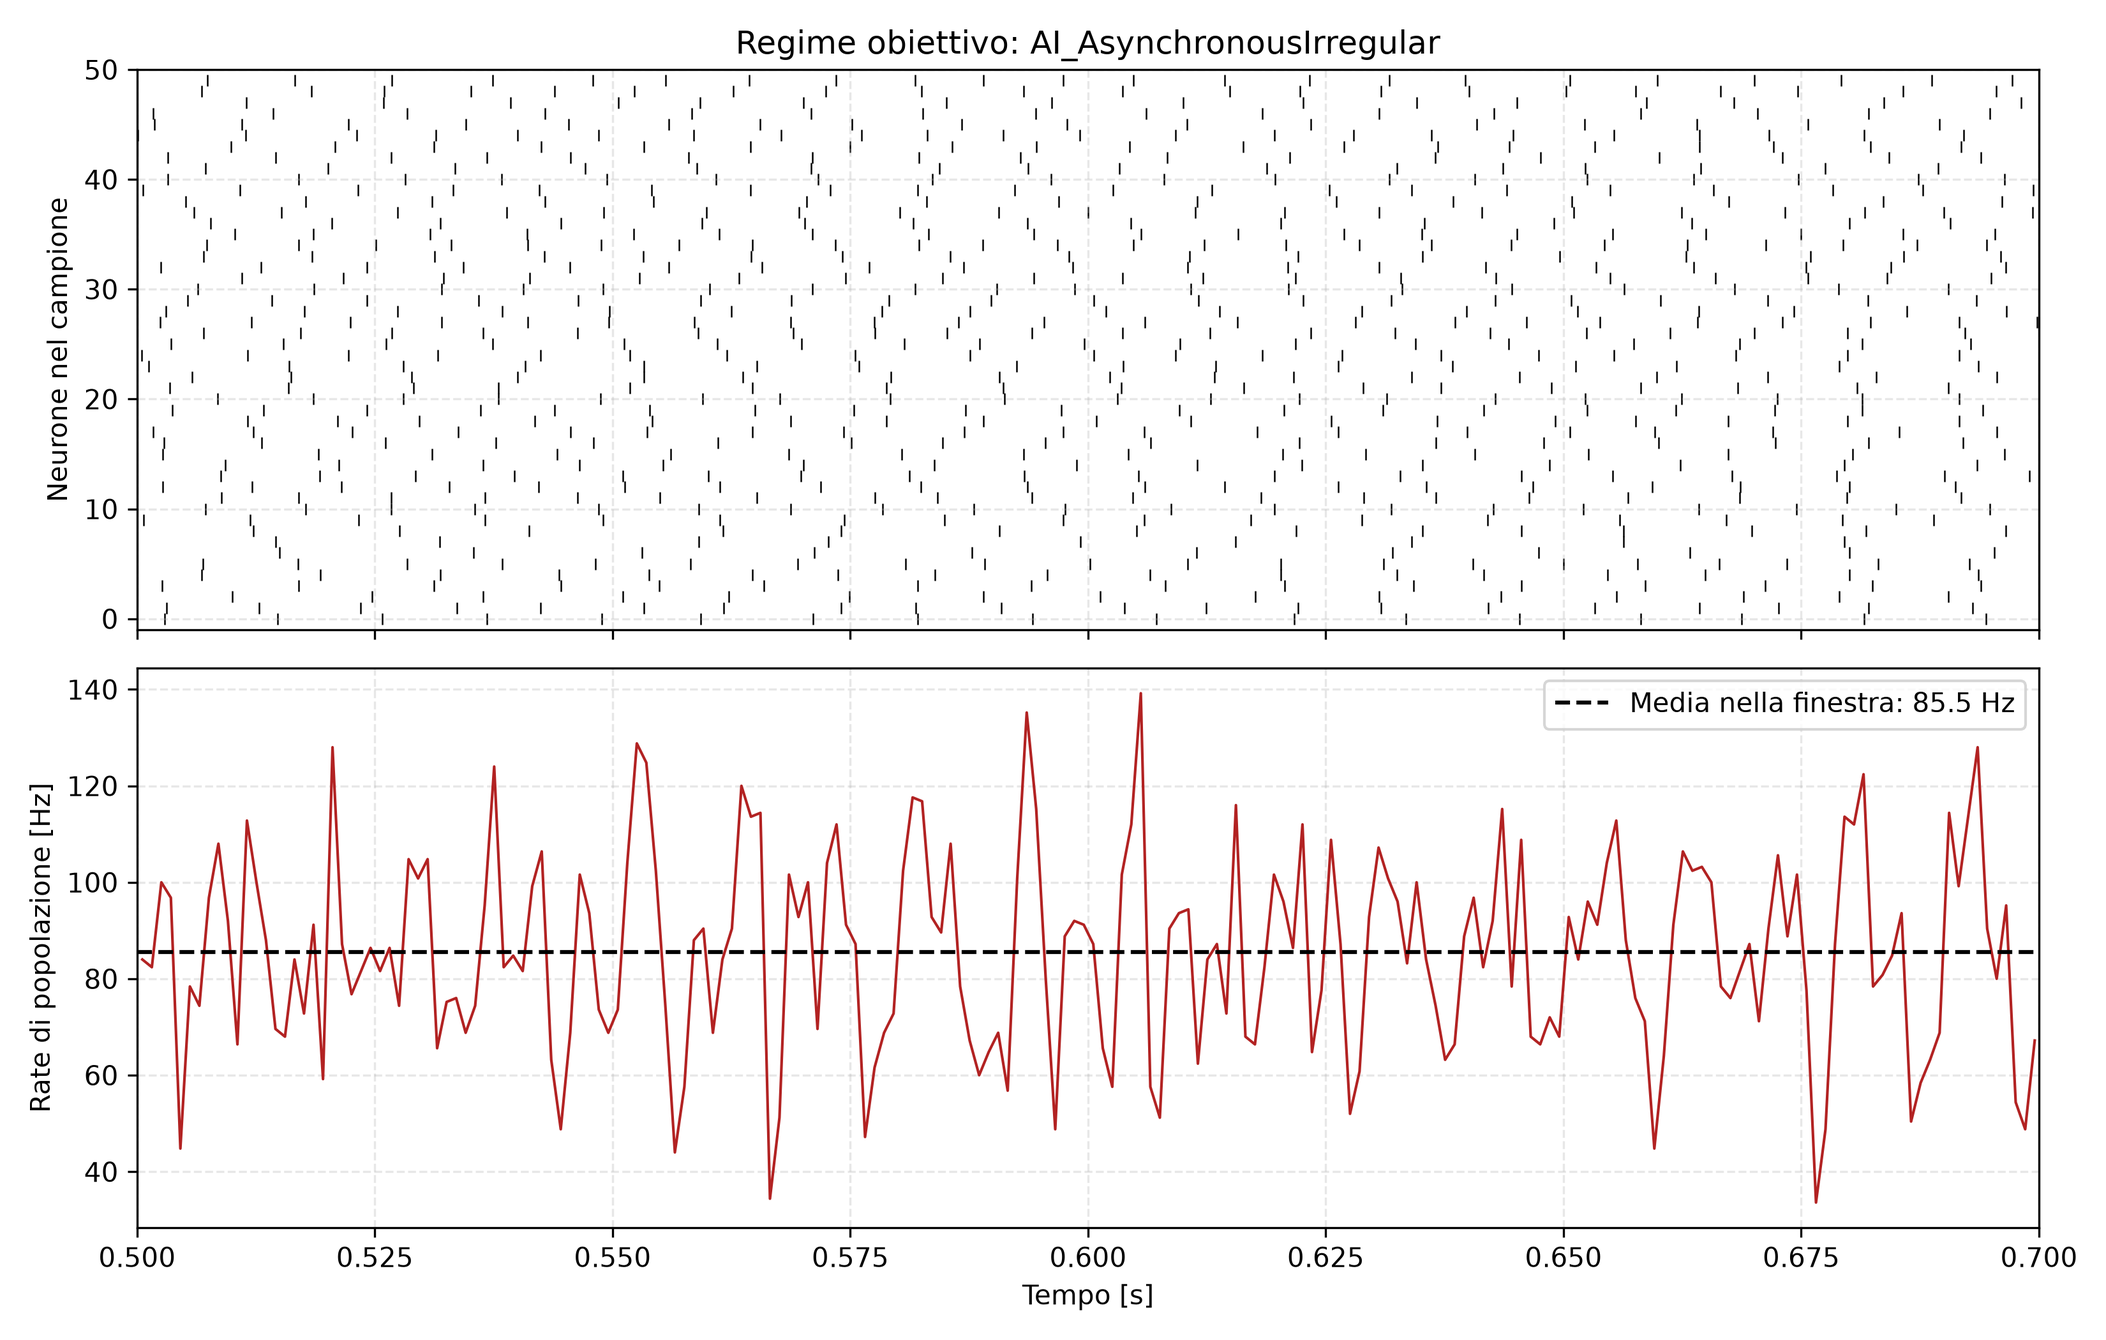
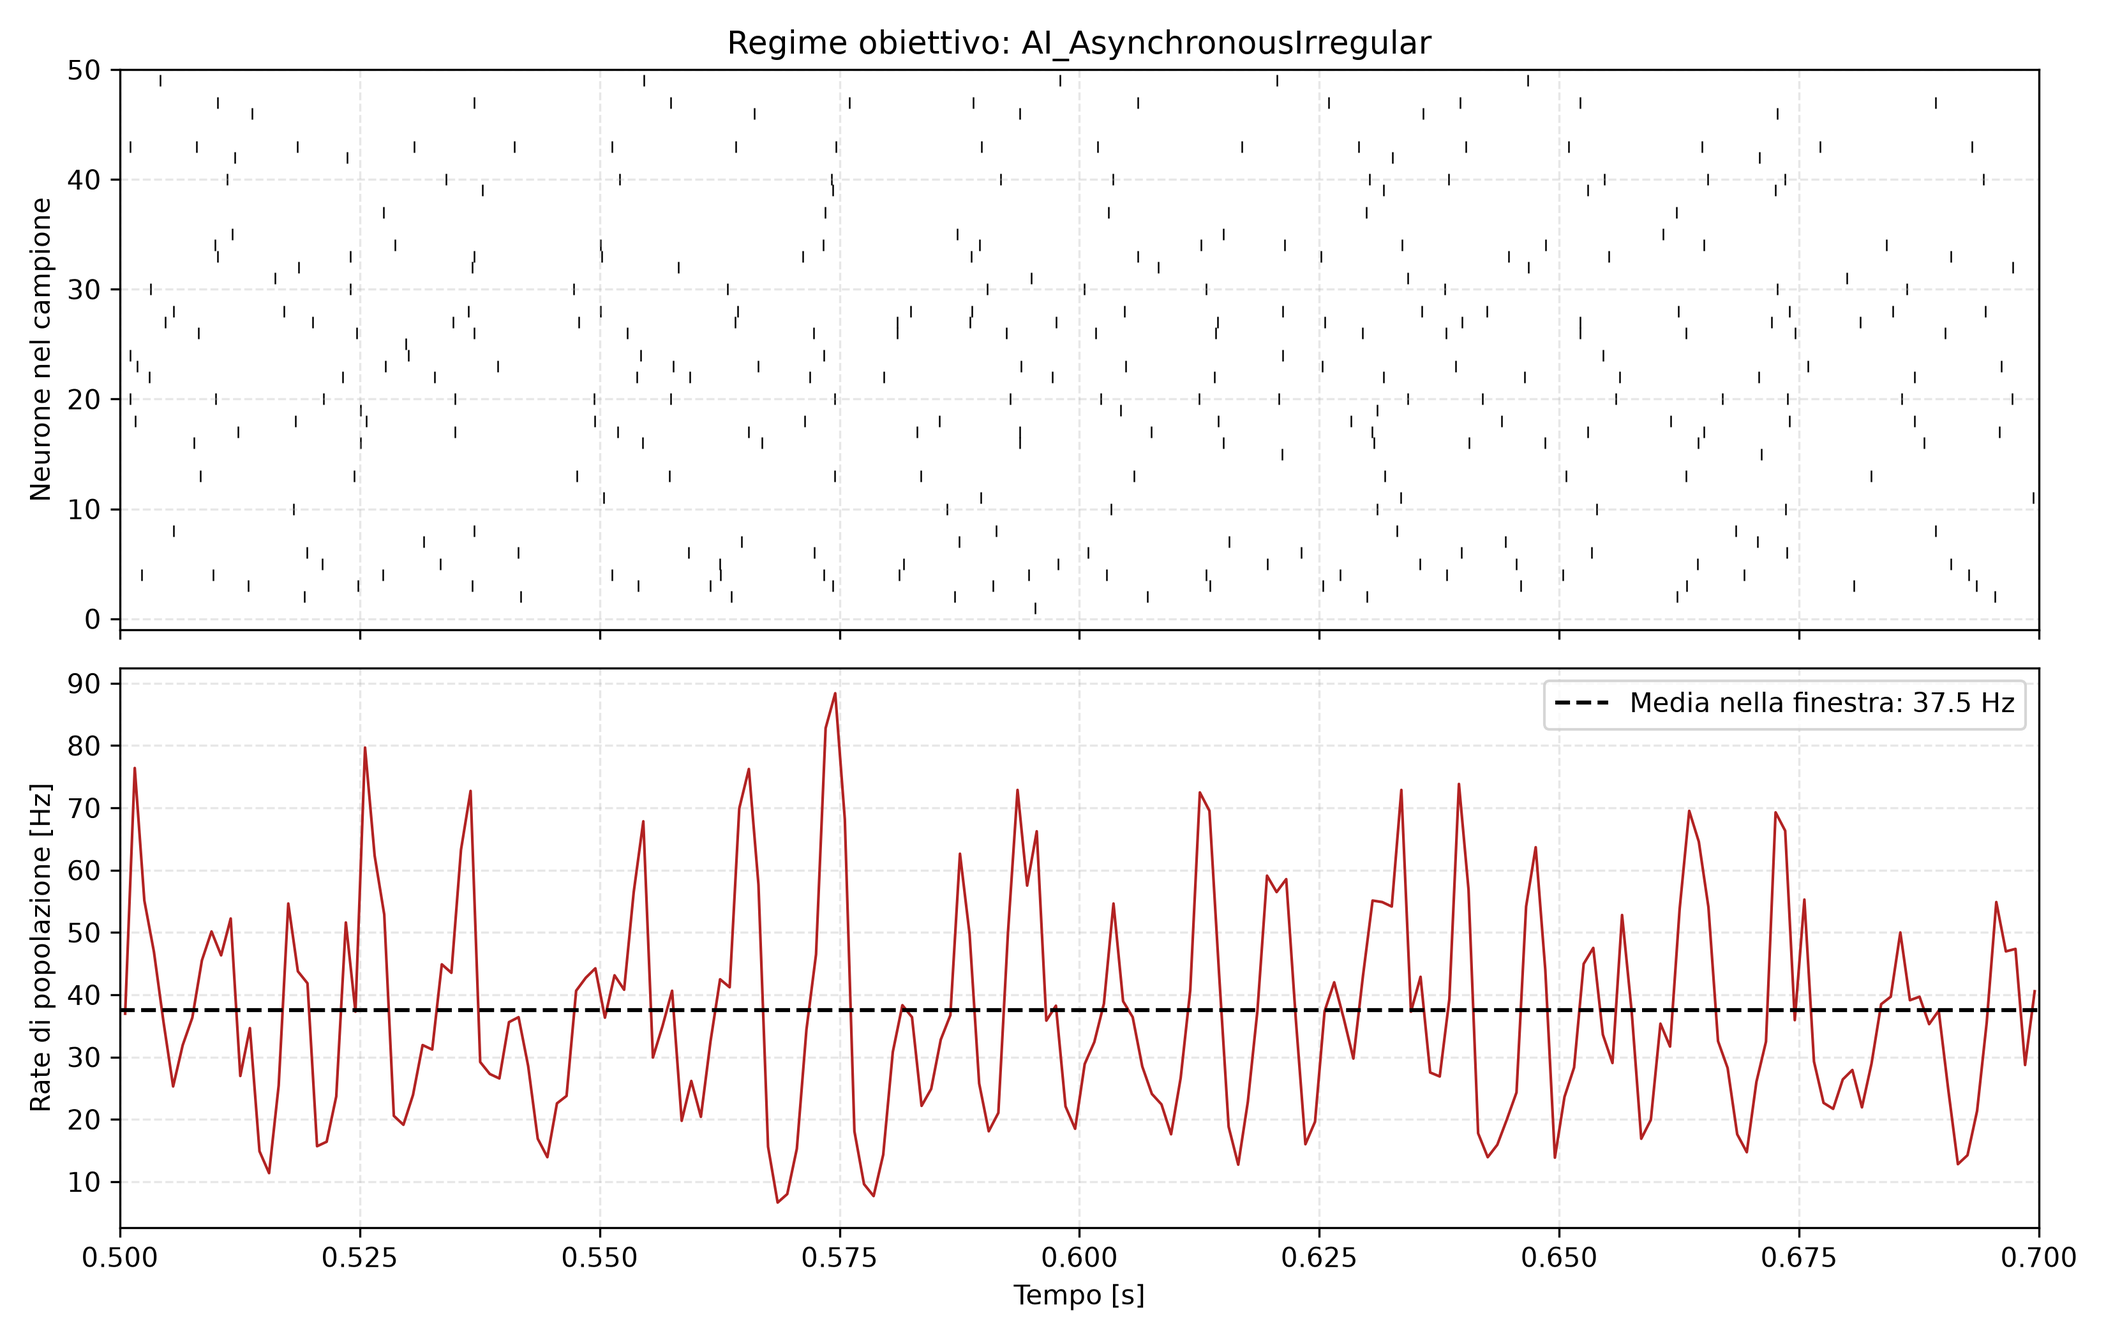
sinapsi attive e test con brunel

diff --git a/src/Simulazione.cpp b/src/Simulazione.cpp
@@ -102,23 +102,23 @@ void Simulazione::valutaStimoli(double t) {
 void Simulazione::scritturaHeader() {
 
     // 1. Apertura dei file
-    filePotenziali_.open("output/" + fileNameV_, std::ios::binary | std::ios::out);
+    // filePotenziali_.open("output/" + fileNameV_, std::ios::binary | std::ios::out);
     fileFiring_.open("output/" + fileNameF_, std::ios::binary | std::ios::out);
     // fileSinapsi_.open("output/" + fileNameS_, std::ios::binary | std::ios::out);
 
     // 2. Controllo della corretta apertura dei file
-    if (!filePotenziali_.is_open() || !fileFiring_.is_open() /*|| !fileSinapsi_.is_open()*/) {
+    if (/*!filePotenziali_.is_open() || */ !fileFiring_.is_open() /*|| !fileSinapsi_.is_open()*/) {
         std::cerr << "[Simulazione] errore: impossibile aprire i file di output.\n";
         return;
     }
 
     // 3. Calcolo "numero di colonne"
-    int32_t colsV = engine_.numeroNeuroniTotali_ + 1;
+    // int32_t colsV = engine_.numeroNeuroniTotali_ + 1;
     int32_t colsF = engine_.numeroNeuroniTotali_ + 1;
-    // int32_t colsS = engine_.numeroSinapsiTotali_ + 1;
+    //  int32_t colsS = engine_.numeroSinapsiTotali_ + 1;
 
     // 4. Scrittura dell'header nei file
-    filePotenziali_.write(reinterpret_cast<const char*>(&colsV), sizeof(int32_t));
+    // filePotenziali_.write(reinterpret_cast<const char*>(&colsV), sizeof(int32_t));
     fileFiring_.write(reinterpret_cast<const char*>(&colsF), sizeof(int32_t));
     // fileSinapsi_.write(reinterpret_cast<const char*>(&colsS), sizeof(int32_t));
 }
@@ -126,12 +126,12 @@ void Simulazione::scritturaHeader() {
 void Simulazione::creazioneBuffer() {
 
     // 1. Calcolo "numero di colonne"
-    int32_t colsV = engine_.numeroNeuroniTotali_ + 1;
+    // int32_t colsV = engine_.numeroNeuroniTotali_ + 1;
     int32_t colsF = engine_.numeroNeuroniTotali_ + 1;
     // int32_t colsS = engine_.numeroSinapsiTotali_ + 1;
 
     // 2. Calcolo numero di byte da scrviere ad ogni step
-    bytesPerStepV_ = static_cast<size_t>(colsV) * sizeof(double);
+    // bytesPerStepV_ = static_cast<size_t>(colsV) * sizeof(double);
     bytesPerStepF_ = static_cast<size_t>(colsF) * sizeof(double);
     // bytesPerStepS_ = static_cast<size_t>(colsS) * sizeof(double);
 
@@ -139,16 +139,17 @@ void Simulazione::creazioneBuffer() {
     size_t ramDisponibile = getAvailableRAM(); // detection --> scritta interamente da gemini, da controllare
 
     // 4. Calcolo la grandezza massima uguale per i tre buffer
-    size_t bufferTarget = ramDisponibile / 4;
+    size_t bufferTarget = ramDisponibile / 2;
     std::cout << "RAM disponibile : " << ramDisponibile / (1024 * 1024) << " MB" << std::endl;
 
     // 5. Calcolo il numero di step di simulazione che entrano nel buffer di dimensione massima
-    size_t stepsPerFlushV = bufferTarget / bytesPerStepV_;
+    // size_t stepsPerFlushV = bufferTarget / bytesPerStepV_;
     size_t stepsPerFlushF = bufferTarget / bytesPerStepF_;
     // size_t stepsPerFlushS = bufferTarget / bytesPerStepS_;
 
     // 6. Considero il numero di step minore
-    stepsPerFlush_ = std::min({stepsPerFlushV, stepsPerFlushF, /*stepsPerFlushS,*/ static_cast<size_t>(stepTotali_)});
+    stepsPerFlush_ =
+        std::min({/*stepsPerFlushV,*/ stepsPerFlushF, /*stepsPerFlushS,*/ static_cast<size_t>(stepTotali_)});
 
     // 7. Controllo che il numero di step più piccolo non sia nullo
     if (stepsPerFlush_ == 0) {
@@ -159,17 +160,17 @@ void Simulazione::creazioneBuffer() {
 
     // 8. Calcolo la dimensione di ciascun buffer in base al numero di byte scritti in uno step
     // Osservazione : i buffer hanno dimensioni diverse ma si riempiono tutti allo stesso step (stepPerFlush_)
-    size_t bufferSizeV = stepsPerFlush_ * bytesPerStepV_;
+    // size_t bufferSizeV = stepsPerFlush_ * bytesPerStepV_;
     size_t bufferSizeF = stepsPerFlush_ * bytesPerStepF_;
     // size_t bufferSizeS = stepsPerFlush_ * bytesPerStepS_;
 
     // 9. Imposto la dimensione dei tre buffer
-    bufferV_.resize(bufferSizeV);
+    // bufferV_.resize(bufferSizeV);
     bufferF_.resize(bufferSizeF);
     // bufferS_.resize(bufferSizeS);
 
     // 10. Log per vedere quanta RAM si sta usando effettivamente
-    std::cout << "[Simulazione] RAM allocata per i 3 buffer: " << (bufferSizeV + bufferSizeF) / (1024 * 1024) << " MB ("
+    std::cout << "[Simulazione] RAM allocata per i 3 buffer: " << (bufferSizeF) / (1024 * 1024) << " MB ("
               << stepsPerFlush_ << " step per flush)\n";
 }
 
@@ -189,7 +190,7 @@ void Simulazione::preparazioneOutput() {
 void Simulazione::writeFile() {
 
     // 1. Scrivo i buffer sui file
-    filePotenziali_.write(bufferV_.data(), posizioneBuffer_ * bytesPerStepV_);
+    // filePotenziali_.write(bufferV_.data(), posizioneBuffer_ * bytesPerStepV_);
     fileFiring_.write(bufferF_.data(), posizioneBuffer_ * bytesPerStepF_);
     // fileSinapsi_.write(bufferS_.data(), posizioneBuffer_ * bytesPerStepS_);
 
@@ -207,7 +208,7 @@ void Simulazione::loadStatoRete(double time) {
         writeFile();
 
     // 2. Calcolo in che poszione sono nel buffer
-    size_t offsetV = posizioneBuffer_ * bytesPerStepV_;
+    // size_t offsetV = posizioneBuffer_ * bytesPerStepV_;
     size_t offsetF = posizioneBuffer_ * bytesPerStepF_;
     // size_t offsetS = posizioneBuffer_ * bytesPerStepS_;
 
@@ -215,25 +216,25 @@ void Simulazione::loadStatoRete(double time) {
     const char* src = reinterpret_cast<const char*>(&time);
 
     // 3.1 Inserisco il tempo nei tre buffer
-    std::copy(src, src + sizeof(time), bufferV_.begin() + offsetV);
+    // std::copy(src, src + sizeof(time), bufferV_.begin() + offsetV);
     std::copy(src, src + sizeof(time), bufferF_.begin() + offsetF);
     // std::copy(src, src + sizeof(time), bufferS_.begin() + offsetS);
 
     // 3.2 Sposto l'offset pari a nuemro di byte della "variabile" tempo
-    offsetV += sizeof(time);
+    // offsetV += sizeof(time);
     offsetF += sizeof(time);
     // offsetS += sizeof(time);
 
     // 4. Calcolo quanti BYTE totali occupano gli array
-    size_t byteNeuroni = bytesPerStepV_ - sizeof(time);
+    // size_t byteNeuroni = bytesPerStepV_ - sizeof(time);
     size_t byteFiring = bytesPerStepF_ - sizeof(time);
     // size_t byteSinapsi = bytesPerStepS_ - sizeof(time);
 
     // 5. Copio, in blocco, lo stato della rete (neuroni, firing e sinapsi)
 
     // 5.1 Prendo il puntatore all'inizio dell'array e lo converto in puntatore a char
-    const char* srcV = reinterpret_cast<const char*>(engine_.getPointerStatoNeuroni().data());
-    std::copy(srcV, srcV + byteNeuroni, bufferV_.begin() + offsetV);
+    // const char* srcV = reinterpret_cast<const char*>(engine_.getPointerStatoNeuroni().data());
+    // std::copy(srcV, srcV + byteNeuroni, bufferV_.begin() + offsetV);
 
     const char* srcF = reinterpret_cast<const char*>(engine_.getPointerStatoFiring().data());
     std::copy(srcF, srcF + byteFiring, bufferF_.begin() + offsetF);
@@ -273,7 +274,7 @@ void Simulazione::avviaSimulazione(const std::string& filenameV, const std::stri
     // 2. Inializzo il nome del file dove salvare l'output della simulazione
     fileNameV_ = filenameV;
     fileNameF_ = filenameF;
-    // fileNameS_ = filenameS;
+    fileNameS_ = filenameS;
 
     // 3. Preparo il necessario per poter salvare su disco l'output
     preparazioneOutput();

diff --git a/src/engine.cpp b/src/engine.cpp
@@ -101,23 +101,45 @@ engine::engine(const Rete& rete) {
 void engine::prepare(double dt) {
 
     // 1. Preparazione sinapsi e inzializzazione vettore delaySteps_
+
+    // 1.1 Preparazione sinapsi di tipo Current
     for (size_t i = 0; i < current_.size(); ++i) {
-        auto& s = current_[i];
+
+        Current& s = current_[i];
+
+        // 1.1.1 Preparazione della sinapsi (coefficienti analitici + soglia)
         s.prepare(dt);
+
+        // 1.1.2 Calcolo del delay in step temporali e inserimento nel vettore delaySteps_
         delaySteps_[currentEngineToRete[i]] = static_cast<size_t>(std::round(s.getDelay() / dt));
+
+        // 1.1.3 Controllo condizione inziale della sinapsi e inserimento nell'array activeCurrent_
         if (std::abs(s.Isyn_) > s.soglia_) {
             s.statoSinapsi_ = true;
             activeCurrent_.push_back(i);
+        } else {
+            s.Isyn_ = 0.0;
+            s.statoSinapsi_ = false;
         }
     }
+
+    // 1.2 Preparazione sinapsi di tipo Conductance
     for (size_t i = 0; i < conductance_.size(); ++i) {
+
         auto& s = conductance_[i];
+
+        // 1.2.1 Preparazione della sinapsi (coefficienti analitici + soglia)
         s.prepare(dt);
+
+        // 1.2.2 Calcolo del delay in step temporali e inserimento nel vettore delaySteps_
         delaySteps_[conductanceEngineToRete[i]] = static_cast<size_t>(std::round(s.getDelay() / dt));
     }
 
-    // 2. Preparazione del ring buffer degli eventi sinaptici
-    size_t maxDelaySteps = *std::max_element(delaySteps_.begin(), delaySteps_.end());
+    // 2. Preparazione del ring buffer degli eventi sinaptici (risolvere problema di rete senza sinapsi)
+    size_t maxDelaySteps = 0;
+    if (!delaySteps_.empty()) {
+        maxDelaySteps = *std::max_element(delaySteps_.begin(), delaySteps_.end());
+    }
     ringEventi_.resize(maxDelaySteps + 1);
 
     // 3. Preparazione dei neuroni (precalcolo coefficienti analitici esatti per LIF)
@@ -131,6 +153,7 @@ void engine::step(double dt) {
     std::fill(inputTotale_.begin(), inputTotale_.end(), 0.0);
 
     // 2. Controllo spike pre-sinaptici e inserimento degli eventi nel ring buffer
+    // (quali neuroni hanno fatto spike nel passo precedente)
     for (std::size_t id = 0; id < numeroNeuroniTotali_; ++id) {
 
         if (statoFiring_[id] > 0.0) {
@@ -173,7 +196,7 @@ void engine::step(double dt) {
         } else if (evento.modello == SynapseModel::Conductance) {
             auto& s = conductance_[evento.indiceEngine];
             s.eventoArrivato_ = true;
-            activeConductance_.push_back(evento.indiceEngine);
+            // activeConductance_.push_back(evento.indiceEngine);
         }
     }
 
@@ -184,25 +207,26 @@ void engine::step(double dt) {
     for (size_t i = 0; i < activeCurrent_.size();) {
 
         size_t index = activeCurrent_[i];
-        bool avventoSwap = false;
+        bool avvenutoSwap = false;
 
         // 2.1 Avanzamento dinamica sinapsi
         current_[index].update(dt);
-
-        // 2.1 Controllo sinapsi attiva (se non è più attiva, la rimuovo dal vettore activeCurrent_)
-        if (current_[index].isDelta() || std::abs(current_[index].Isyn_) < current_[index].soglia_) {
-            current_[index].Isyn_ = 0.0;
-            current_[index].statoSinapsi_ = false;
-            std::swap(activeCurrent_[i], activeCurrent_.back());
-            activeCurrent_.pop_back();
-            avventoSwap = true;
-        }
 
         // 2.2 Aggiungo le correnti appena calcolate all'input totale del neurone post-sinaptico
         inputTotale_[current_[index].getIndexPost()] -=
             current_[index].getCurrent(); // inserite con il segno meno per convenzione
 
-        if (!avventoSwap)
+        // 2.3 Controllo se la sinapsi è ancora attiva, altrimenti la rimuovo dall'array activeCurrent_
+        // Se la sinapsi è delta può essere rimossa appena è stata processata (altrimenti viene chiamato update nello
+        // step successivo)
+        if (current_[index].isDelta() || std::abs(current_[index].Isyn_) <= current_[index].soglia_) {
+            current_[index].Isyn_ = 0.0;
+            current_[index].statoSinapsi_ = false;
+            std::swap(activeCurrent_[i], activeCurrent_.back());
+            activeCurrent_.pop_back();
+            avvenutoSwap = true;
+        }
+        if (!avvenutoSwap)
             ++i;
     }
 

diff --git a/src/main.cpp b/src/main.cpp
@@ -1102,10 +1102,70 @@ void eseguiSimulazioneBrunel(const std::string& nomeRegime, double g, double eta
 // dinamicamente equivalente alla rete originale: controllare raster, CV e rate.
 void eseguiQuattroRegimiBrunel(std::size_t numE = 1000, std::size_t numI = 250) {
     eseguiSimulazioneBrunel("SR_SynchronousRegular", 3.0, 2.0, numE, numI);
-    // eseguiSimulazioneBrunel("AI_AsynchronousIrregular", 5.0, 2.0, numE, numI);
-    // eseguiSimulazioneBrunel("SI_fast_SynchronousFast", 6.0, 4.0, numE, numI);
-    // eseguiSimulazioneBrunel("SI_slow_SynchronousSlow", 4.5, 0.9, numE, numI);
+    eseguiSimulazioneBrunel("AI_AsynchronousIrregular", 5.0, 2.0, numE, numI);
+    eseguiSimulazioneBrunel("SI_fast_SynchronousFast", 6.0, 4.0, numE, numI);
+    eseguiSimulazioneBrunel("SI_slow_SynchronousSlow", 4.5, 0.9, numE, numI);
 }
+
+void ringNetwork(size_t N = 100) {
+
+    Rete rete;
+
+    const double dt = 0.1 * ms;
+    const double durata = 2.0 * s; // Analizzare dopo almeno 0.2 s di transitorio.
+
+    patchLIF parametri;
+    parametri.V = 10.0 * mV;
+    parametri.Vrest = 0.0 * mV;
+    parametri.Vreset = 10.0 * mV;
+    parametri.Vth = 20.0 * mV;
+    parametri.VthMin = 20.0 * mV;
+    parametri.VthMax = 20.0 * mV; // Soglia fissa: niente adattamento.
+    parametri.R = 1.0 * Mohm;
+    parametri.C = 20000.0 * p * F;
+    parametri.timeAbsolute = 2.0 * ms;
+    parametri.timeRelative = 20.0 * ms; // Finito; irrilevante con soglia fissa.
+
+    const double tauM = parametri.R.value() * parametri.C.value(); // 20 ms.
+    const double J = 21.0 * mV;
+    const double correnteEvento = J / (parametri.R.value() * (-std::expm1(-dt / tauM)));
+
+    patchCurrent eccitatoria;
+    eccitatoria.Isyn = 0.0;
+    eccitatoria.peso = -1.0; // Engine sottrae getCurrent().
+    eccitatoria.Ipeak = correnteEvento;
+    eccitatoria.delay = 1.5 * ms;
+    eccitatoria.tau = 5.0 * ms; // Ignorato per le delta.
+    eccitatoria.isDelta = true;
+
+    for (size_t i = 0; i < N; i++) {
+        auto j = rete.aggiungiNeurone(NeuronModel::LIF);
+        if (j != 0) {
+            rete.connettiNeuroni(j - 1, j, SynapseModel::Current, 'A', eccitatoria);
+        }
+        if (j == N - 1) {
+            rete.connettiNeuroni(j, 0, SynapseModel::Current, 'A', eccitatoria);
+        }
+    }
+
+    rete.bloccaRete();
+
+    Simulazione sim(rete, dt, durata);
+
+    configConstantStimulus inputIniziale;
+    inputIniziale.ampiezza = 500.0 * n * A;
+    inputIniziale.timeStart = 50 * ms;
+    inputIniziale.timeEnd = 51 * ms;
+
+    stimolo s1 = {0, inputIniziale};
+
+    sim.iniettaStimoli(s1);
+
+    std::filesystem::create_directories("output");
+    const std::string nome = "ringNetwork";
+    sim.avviaSimulazione("V_" + nome + ".bin", "F_" + nome + ".bin", "S_" + nome + ".bin");
+}
+
 // ---------------------------------------------------------------------------------------
 // MAIN: Esecuzione di tutti gli esempi didattici e benchmark
 // ---------------------------------------------------------------------------------------
@@ -1141,6 +1201,8 @@ int main(int argc, char* argv[]) {
 
         // Lanciamo i 4 regimi classici di Brunel (2000)
         eseguiQuattroRegimiBrunel(numE, numI);
+
+        // ringNetwork(1000);
 
         std::cout << "\n======================================================================\n";
         std::cout << "  TUTTI GLI ESEMPI E I BENCHMARK SONO STATI ESEGUITI CON SUCCESSO!\n";

diff --git a/include/CurrentSyn.hpp b/include/CurrentSyn.hpp
@@ -8,7 +8,6 @@
 #ifndef CURRENTSYN_HPP
 #define CURRENTSYN_HPP
 
-#include <cmath>
 #include <cstddef>
 #include <optional>
 #include "UnitaSI.hpp"
@@ -84,7 +83,7 @@ class Current {
     double Isyn_ = 0.0 * A;      // Corrente sinaptica calcolata in questo step [A]
     char tipoIntegratore_ = 'E'; // Risolutore ODE ('A' = Analitico, 'E' = Eulero, 'R' = Runge-Kutta)
     bool isDelta_ = false;       // Flag: true per sinapsi a delta istantanea senza decadimento esponenziale
-    double soglia_ = 1e-12;      // Soglia per considerare la sinapsi attiva o inattiva
+    double soglia_ = 1e-12 * A;  // Soglia per considerare la sinapsi attiva o inattiva
 
     // Parametri Fisici
     double peso_ = 1.0;          // Forza adimensionale della sinapsi
@@ -118,12 +117,13 @@ class Current {
     // 3. Metodi di preparazione e configurazione interna
     inline void setIndexPre(size_t idx) { indexPre_ = idx; }
     inline void setIndexPost(size_t idx) { indexPost_ = idx; }
+    inline void setSoglia();
 
     /**
-     * @brief Prepara la sinapsi prima della simulazione (buffer delay + coefficienti analitici).
+     * @brief Prepara la sinapsi prima della simulazione (coefficienti analitici).
      * @param dt Passo di integrazione temporale [s].
      */
-    inline void prepare(double dt) { decayFactor_ = std::exp(-dt / tau_); }
+    void prepare(double dt);
 };
 
 #endif // CURRENTSYN_HPP

diff --git a/src/CurrentSyn.cpp b/src/CurrentSyn.cpp
@@ -1,4 +1,5 @@
 #include "CurrentSyn.hpp"
+#include <cmath>
 
 void Current::euleroInAvanti(double dt) { Isyn_ += dt * (-Isyn_ / tau_); }
 
@@ -42,3 +43,10 @@ void Current::update(double dt) {
     // 2. Reset del flag dell'evento
     eventoArrivato_ = false;
 }
+
+void Current::prepare(double dt) {
+    decayFactor_ = std::exp(-dt / tau_);
+    setSoglia();
+}
+
+inline void Current::setSoglia() { soglia_ = 1e-12 * A; }

diff --git a/script/plot.py b/script/plot.py
@@ -31,8 +31,8 @@ def leggi_file_binario(filename):
 
 def plot_risultati():
     # Nomi dei file generati (modificali se nel main.cpp hai usato nomi diversi)
-    file_v = "output/testSinapsiV.bin"
-    file_f = "output/testSinapsiF.bin"
+    file_v = "output/V_ringNetwork.bin"
+    file_f = "output/F_ringNetwork.bin"
     file_s = "output/testSinapsiS.bin"
 
     # Carica i dati
